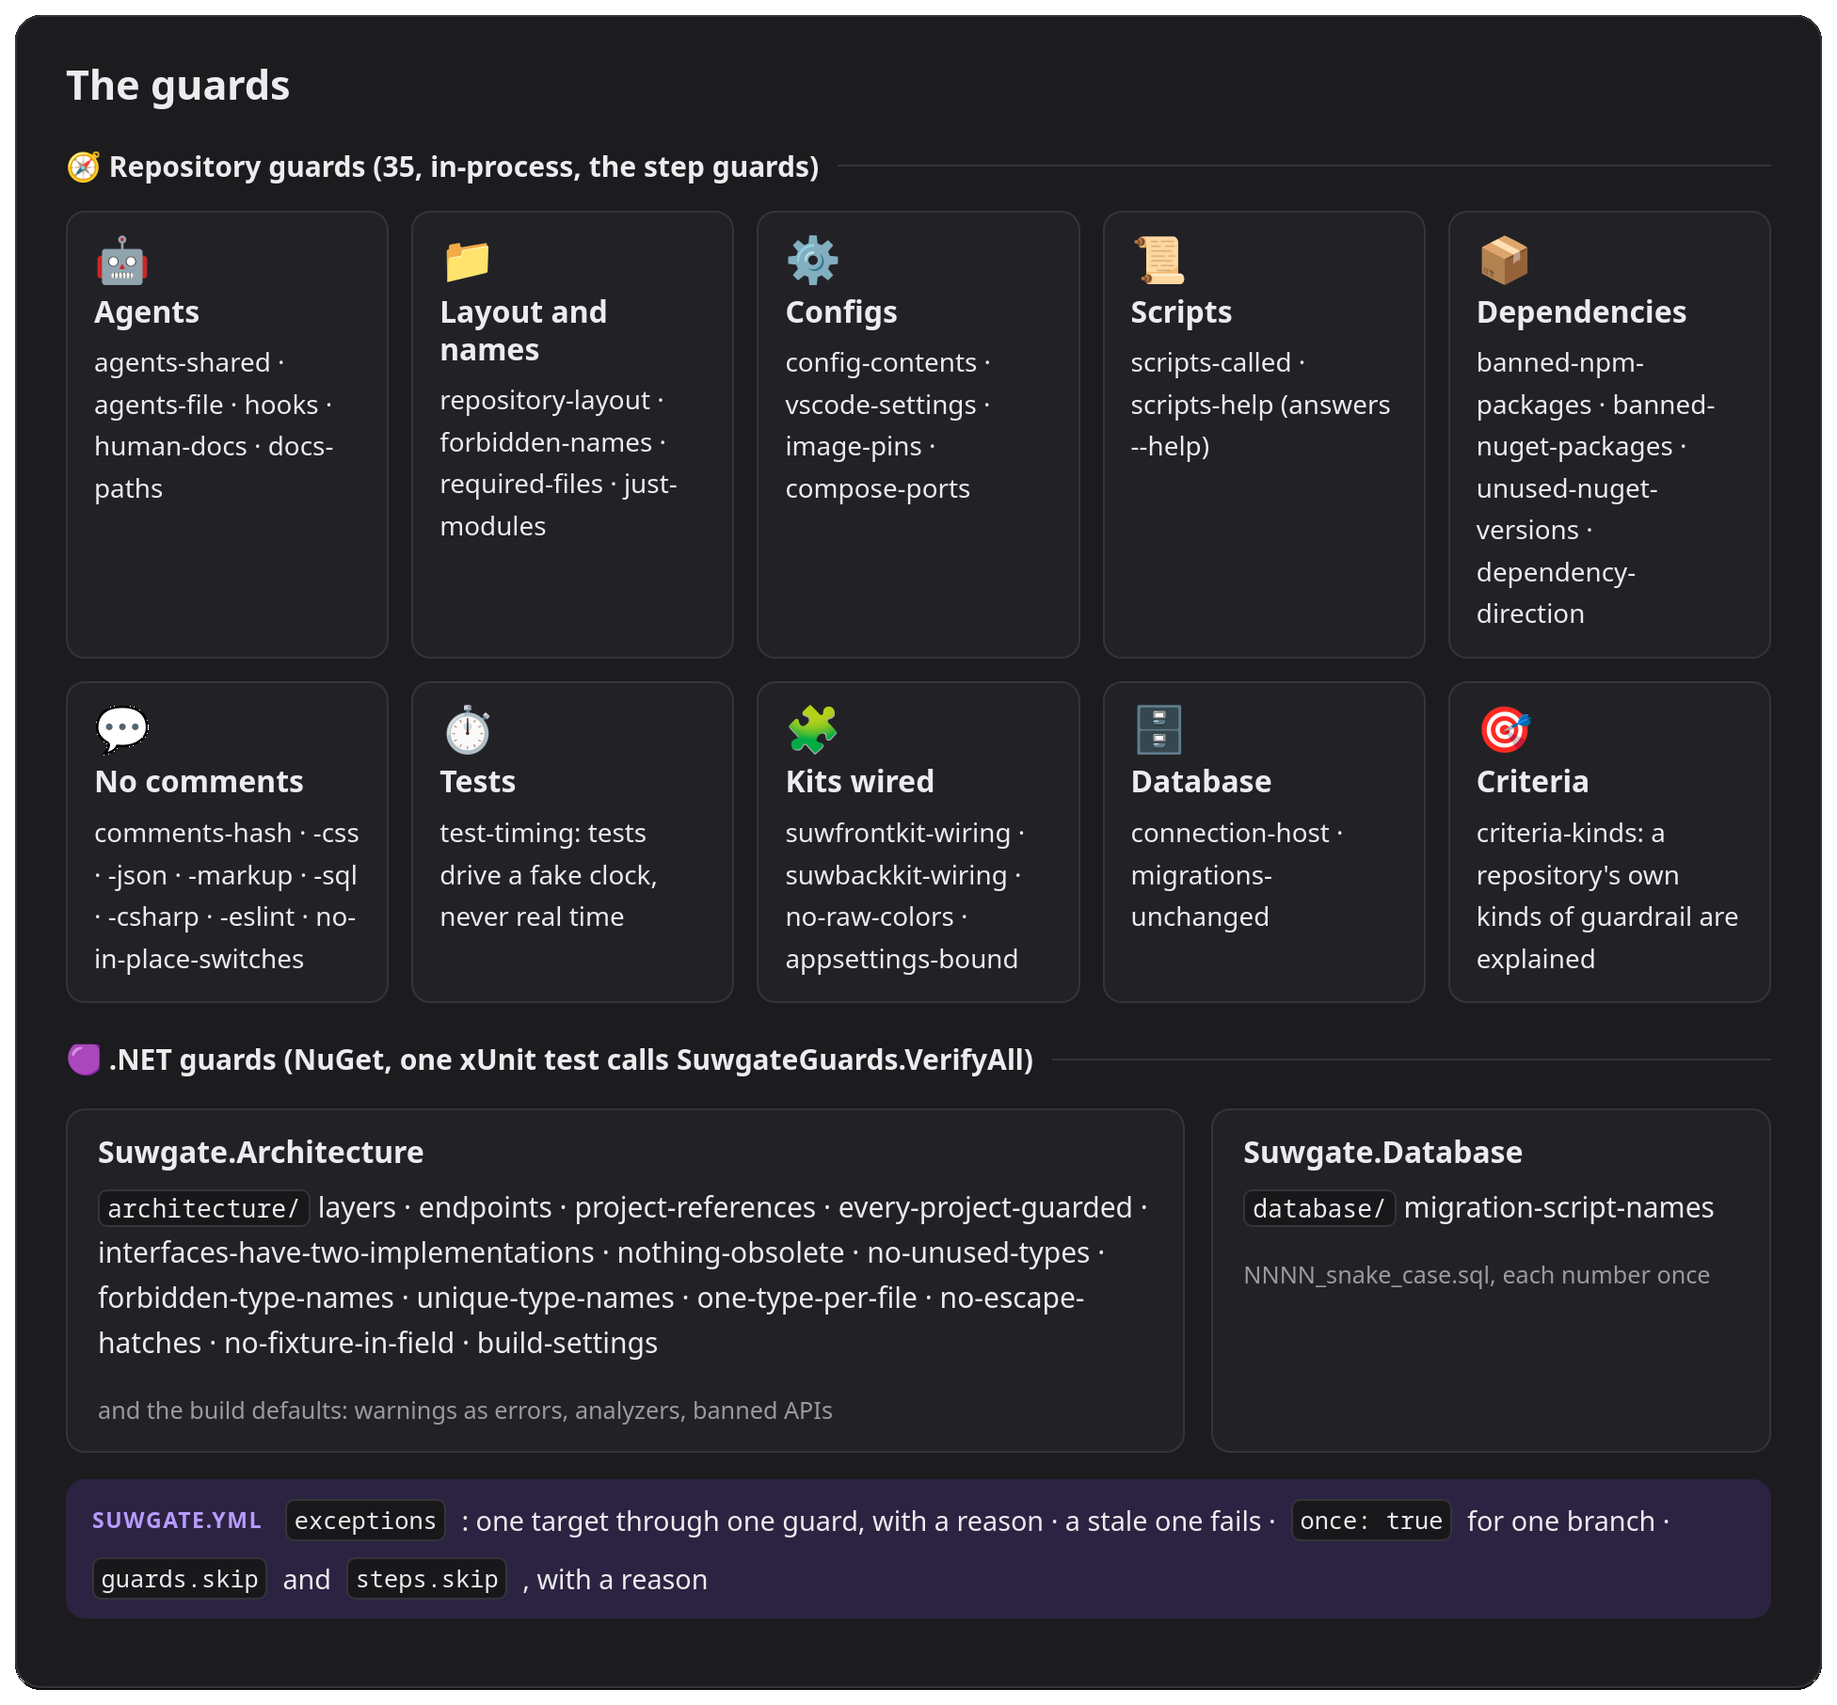
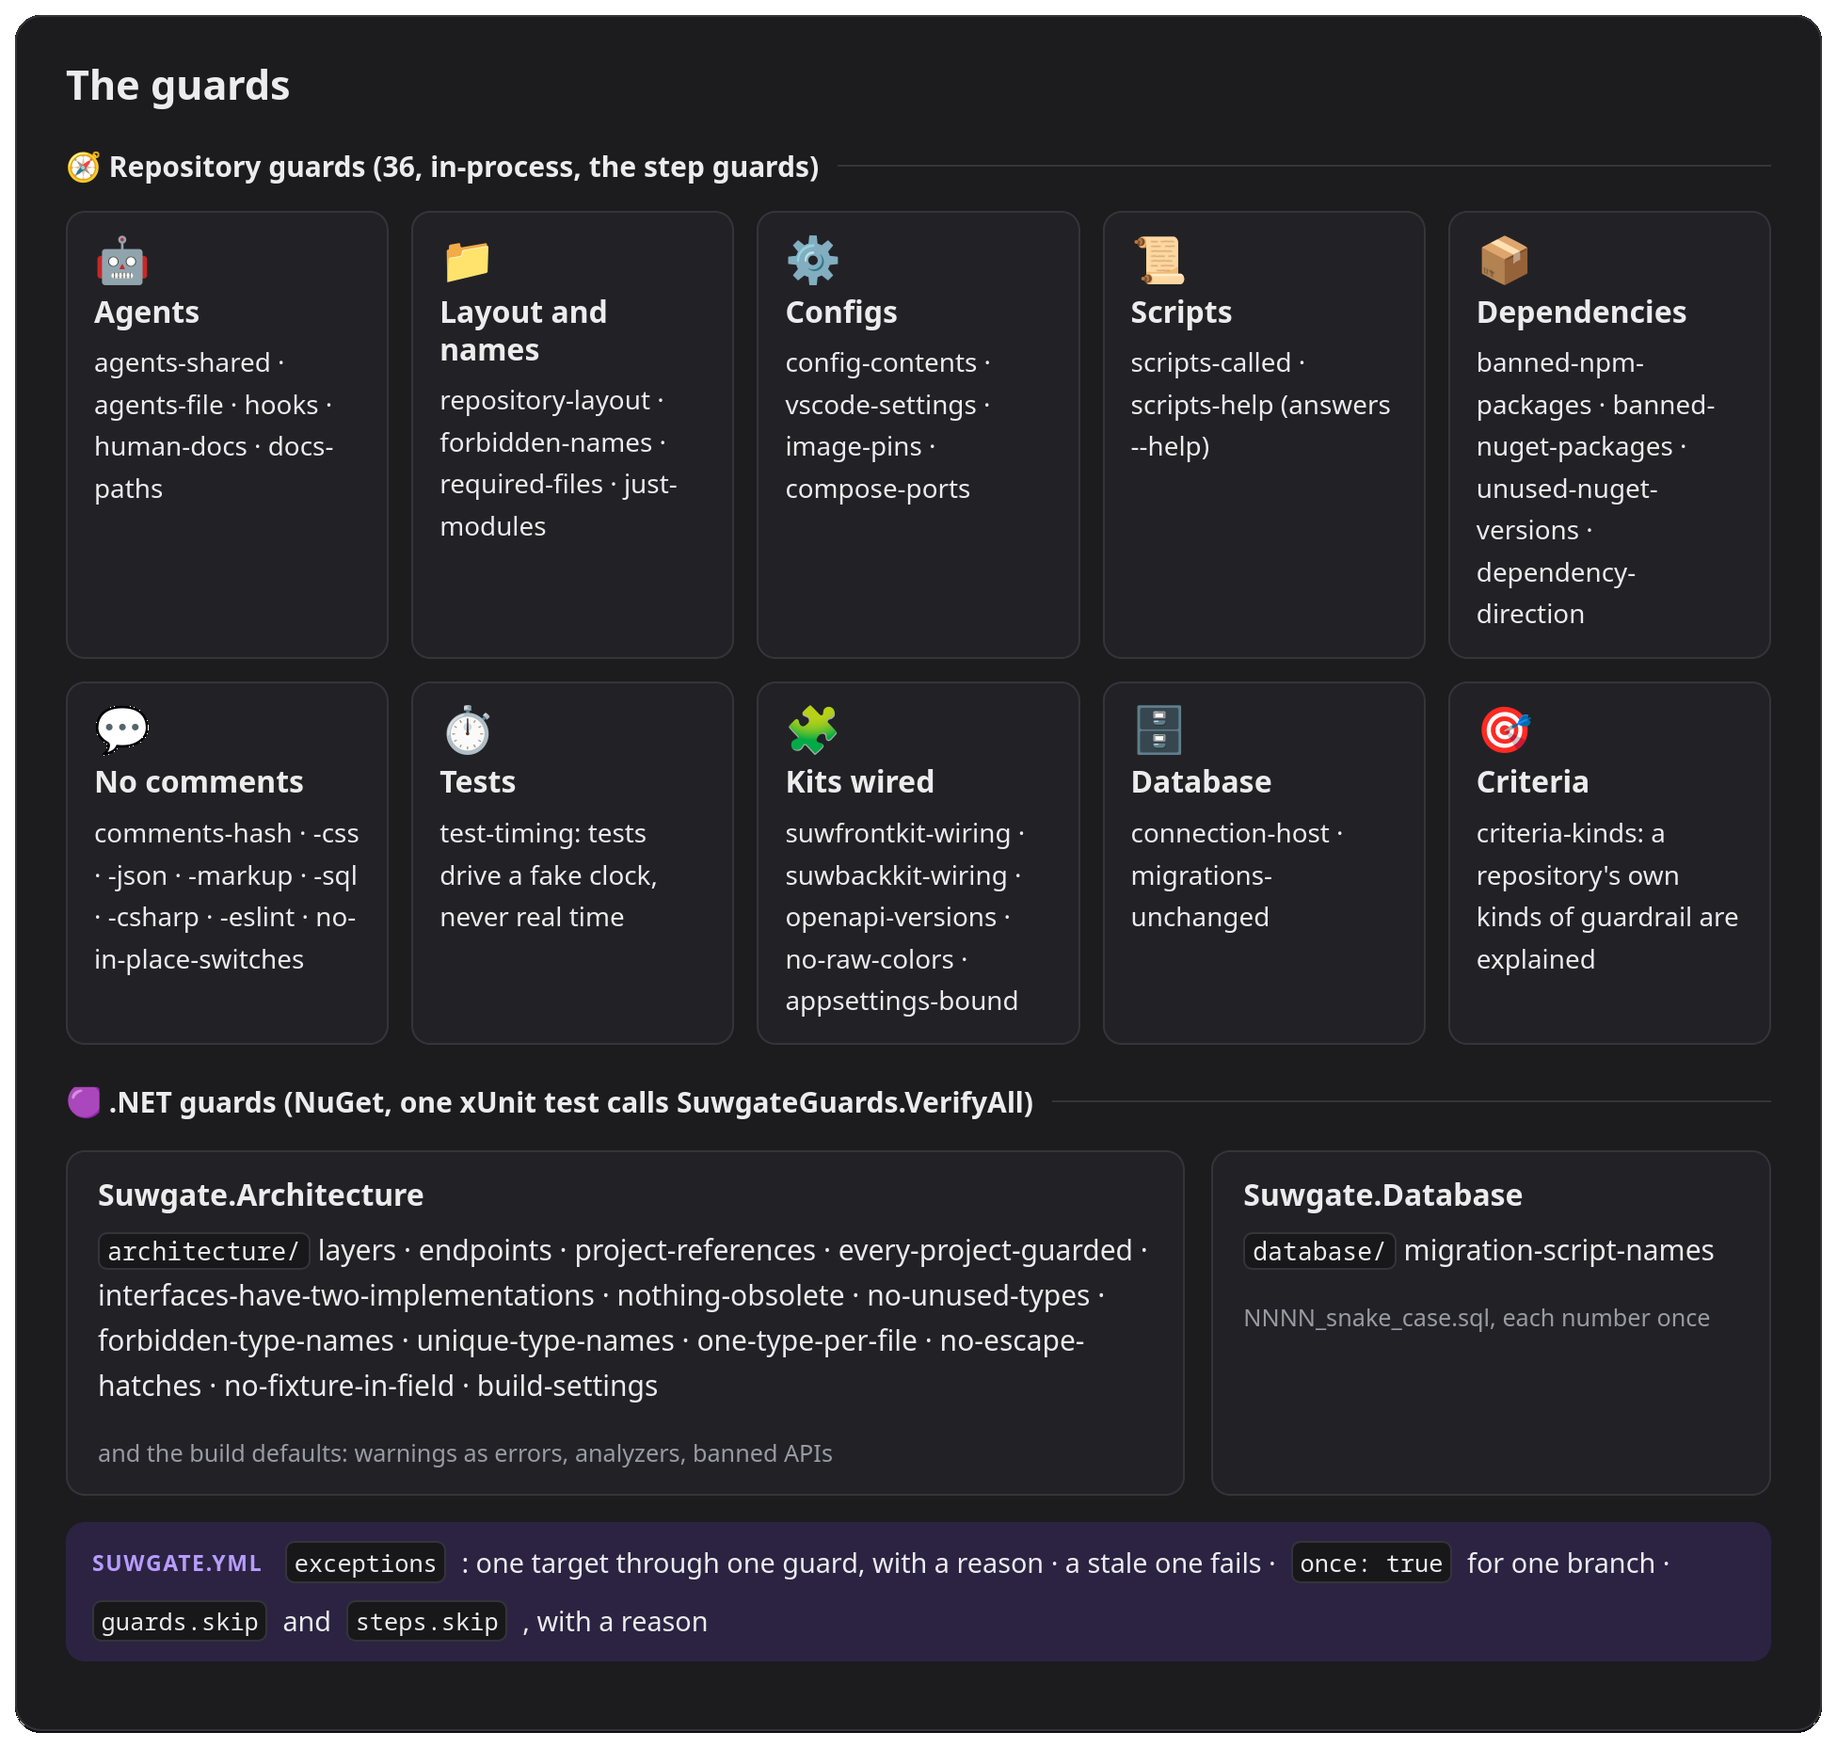
Add the openapi-versions guard: the OpenAPI build tool and library together
The tool that writes the OpenAPI contract at build loads the server's
OpenAPI library; when the library came in through Suwbackkit.Server at an
older release than the tool, every app's contract build failed. The guard
asks for both pinned at the same version, so an update moves both.

Claude-Session: https://claude.ai/code/session_018WtHgTXE2ESTmCyRGAfHbu

diff --git a/docs/visual/board/readme.html b/docs/visual/board/readme.html
@@ -383,7 +383,7 @@ pre.out { font: 12px/1.5 var(--mono); background: var(--code-bg); border: 1px so
 <b>PASS</b> suwgate step dotnet-test:
   all 2 steps in 55s
   (14 exceptions in suwgate.yml)</div></div>
-    <div class="stats"><div><b>4</b><span>profiles: web, library, dotnet, database</span></div><div><b>25</b><span>steps the profiles bring</span></div><div><b>35</b><span>repository guards</span></div><div><b>14</b><span>.NET guards in xUnit</span></div><div><b>3</b><span>hooks for agents and git</span></div><div><b>3</b><span>reusable CI workflows</span></div></div>
+    <div class="stats"><div><b>4</b><span>profiles: web, library, dotnet, database</span></div><div><b>25</b><span>steps the profiles bring</span></div><div><b>36</b><span>repository guards</span></div><div><b>14</b><span>.NET guards in xUnit</span></div><div><b>3</b><span>hooks for agents and git</span></div><div><b>3</b><span>reusable CI workflows</span></div></div>
   </div>
 </section>
 
@@ -452,7 +452,7 @@ pre.out { font: 12px/1.5 var(--mono); background: var(--code-bg); border: 1px so
 
 <section id="guards">
   <h2>The guards</h2>
-  <div class="group">🧭 Repository guards (35, in-process, the step guards)</div>
+  <div class="group">🧭 Repository guards (36, in-process, the step guards)</div>
   <div class="cards" style="--cols:5">
     <div><span class="ico">🤖</span><h4>Agents</h4><p>agents-shared · agents-file · hooks · human-docs · docs-paths</p></div>
     <div><span class="ico">📁</span><h4>Layout and names</h4><p>repository-layout · forbidden-names · required-files · just-modules</p></div>
@@ -461,7 +461,7 @@ pre.out { font: 12px/1.5 var(--mono); background: var(--code-bg); border: 1px so
     <div><span class="ico">📦</span><h4>Dependencies</h4><p>banned-npm-packages · banned-nuget-packages · unused-nuget-versions · dependency-direction</p></div>
     <div><span class="ico">💬</span><h4>No comments</h4><p>comments-hash · -css · -json · -markup · -sql · -csharp · -eslint · no-in-place-switches</p></div>
     <div><span class="ico">⏱</span><h4>Tests</h4><p>test-timing: tests drive a fake clock, never real time</p></div>
-    <div><span class="ico">🧩</span><h4>Kits wired</h4><p>suwfrontkit-wiring · suwbackkit-wiring · no-raw-colors · appsettings-bound</p></div>
+    <div><span class="ico">🧩</span><h4>Kits wired</h4><p>suwfrontkit-wiring · suwbackkit-wiring · openapi-versions · no-raw-colors · appsettings-bound</p></div>
     <div><span class="ico">🗄</span><h4>Database</h4><p>connection-host · migrations-unchanged</p></div>
     <div><span class="ico">🎯</span><h4>Criteria</h4><p>criteria-kinds: a repository's own kinds of guardrail are explained</p></div>
   </div>

diff --git a/src/guards/dotnet/openApiVersions.ts b/src/guards/dotnet/openApiVersions.ts
@@ -1,0 +1,39 @@
+import type { Guard } from "../../gate/contract.ts";
+import { centralPackagesFile } from "./msbuild.ts";
+
+const TOOL = "Microsoft.Extensions.ApiDescription.Server";
+const LIBRARY = "Microsoft.AspNetCore.OpenApi";
+
+export function centralVersion(text: string, name: string): string | undefined {
+    for (const match of text.matchAll(/<PackageVersion\b[^>]*>/g)) {
+        const element = match[0];
+        if (!new RegExp(`\\bInclude\\s*=\\s*"${name.replaceAll(".", "\\.")}"`).test(element)) continue;
+        return /\bVersion\s*=\s*"([^"]+)"/.exec(element)?.[1];
+    }
+    return undefined;
+}
+
+export const openApiVersions: Guard = {
+    id: "openapi-versions",
+    description: `${TOOL}, which writes the OpenAPI contract at build, is pinned in Directory.Packages.props to the same version as ${LIBRARY}, whose OpenAPI library it loads`,
+    profiles: ["dotnet"],
+    check(context) {
+        const file = centralPackagesFile(context);
+        if (!context.files.includes(file)) return [];
+        const text = context.read(file);
+        const tool = centralVersion(text, TOOL);
+        if (tool === undefined) return [];
+        const library = centralVersion(text, LIBRARY);
+        if (library === tool) return [];
+        const pin = `<PackageVersion Include="${LIBRARY}" Version="${tool}" />`;
+        return [
+            {
+                target: file,
+                message:
+                    library === undefined
+                        ? `${TOOL} ${tool} loads the server's ${LIBRARY}, which only comes in through a package (Suwbackkit.Server) and can be another release, so the build of the contract fails with a Microsoft.OpenApi version mismatch: pin it beside the tool, ${pin} (transitive pinning makes it win), so an update moves both`
+                        : `${TOOL} is ${tool} but ${LIBRARY} is ${library}: the tool loads the server's OpenAPI library and fails on a Microsoft.OpenApi version mismatch, so give both the same version`,
+            },
+        ];
+    },
+};

diff --git a/src/guards/dotnet/openApiVersions.test.ts b/src/guards/dotnet/openApiVersions.test.ts
@@ -1,0 +1,34 @@
+import { describe, expect, it } from "vitest";
+
+import { centralVersion, openApiVersions } from "./openApiVersions.ts";
+import { contextOf } from "./testContext.ts";
+
+const props = (...lines: string[]) => `<Project><ItemGroup>${lines.join("")}</ItemGroup></Project>`;
+const tool = (version: string) => `<PackageVersion Include="Microsoft.Extensions.ApiDescription.Server" Version="${version}" />`;
+const library = (version: string) => `<PackageVersion Version="${version}" Include="Microsoft.AspNetCore.OpenApi" />`;
+
+describe("openapi-versions", () => {
+    it("passes the tool and the library at the same version, and a repository without the tool", async () => {
+        expect(await openApiVersions.check(contextOf({ "Directory.Packages.props": props(tool("10.0.15"), library("10.0.15")) }))).toEqual(
+            [],
+        );
+        expect(await openApiVersions.check(contextOf({ "Directory.Packages.props": props(library("10.0.15")) }))).toEqual([]);
+    });
+
+    it("asks to pin the library beside the tool when only a package brings it in", async () => {
+        const [finding] = await openApiVersions.check(contextOf({ "Directory.Packages.props": props(tool("10.0.15")) }));
+        expect(finding?.message).toContain('<PackageVersion Include="Microsoft.AspNetCore.OpenApi" Version="10.0.15" />');
+    });
+
+    it("finds the two at different versions", async () => {
+        const [finding] = await openApiVersions.check(
+            contextOf({ "Directory.Packages.props": props(tool("10.0.15"), library("10.0.12")) }),
+        );
+        expect(finding?.message).toContain("is 10.0.15 but Microsoft.AspNetCore.OpenApi is 10.0.12");
+    });
+
+    it("reads a version whatever the order of the attributes", () => {
+        expect(centralVersion(props(library("1.2.3")), "Microsoft.AspNetCore.OpenApi")).toBe("1.2.3");
+        expect(centralVersion(props(tool("4.5.6")), "Microsoft.Extensions.ApiDescription.Server")).toBe("4.5.6");
+    });
+});

diff --git a/src/guards/dotnet/index.ts b/src/guards/dotnet/index.ts
@@ -1,7 +1,14 @@
 import type { Guard } from "../../gate/contract.ts";
 import { appsettingsBound } from "./appsettingsBound.ts";
 import { bannedNugetPackages } from "./bannedNugetPackages.ts";
+import { openApiVersions } from "./openApiVersions.ts";
 import { suwbackkitWiring } from "./suwbackkitWiring.ts";
 import { unusedNugetVersions } from "./unusedNugetVersions.ts";
 
-export const dotnetGuards: readonly Guard[] = [bannedNugetPackages, unusedNugetVersions, appsettingsBound, suwbackkitWiring];
+export const dotnetGuards: readonly Guard[] = [
+    bannedNugetPackages,
+    unusedNugetVersions,
+    appsettingsBound,
+    suwbackkitWiring,
+    openApiVersions,
+];

diff --git a/README.md b/README.md
@@ -1,6 +1,6 @@
 <picture>
   <source media="(prefers-color-scheme: dark)" srcset="docs/visual/board/img/readme/hero-dark.png">
-  <img alt="suwgate, npm CLI and NuGet guards. One quality gate for every repository: one command runs the steps of its profiles and its guards, configured in one suwgate.yml. Tags: suwgate check, agent hooks, suwgate dev, CI workflows, Renovate preset. Terminal: suwgate check --quick prints PASS, all 8 steps in 4s (14 exceptions in suwgate.yml); suwgate step dotnet-test prints PASS, all 2 steps in 55s. Numbers: 4 profiles (web, library, dotnet, database), 25 steps the profiles bring, 35 repository guards, 14 .NET guards in xUnit, 3 hooks for agents and git, 3 reusable CI workflows." src="docs/visual/board/img/readme/hero-light.png" width="100%">
+  <img alt="suwgate, npm CLI and NuGet guards. One quality gate for every repository: one command runs the steps of its profiles and its guards, configured in one suwgate.yml. Tags: suwgate check, agent hooks, suwgate dev, CI workflows, Renovate preset. Terminal: suwgate check --quick prints PASS, all 8 steps in 4s (14 exceptions in suwgate.yml); suwgate step dotnet-test prints PASS, all 2 steps in 55s. Numbers: 4 profiles (web, library, dotnet, database), 25 steps the profiles bring, 36 repository guards, 14 .NET guards in xUnit, 3 hooks for agents and git, 3 reusable CI workflows." src="docs/visual/board/img/readme/hero-light.png" width="100%">
 </picture>
 
 suwgate is the one quality gate of a stack of repositories that agents and one developer work on: the CLI
@@ -69,7 +69,7 @@ what each step proves: [docs/usage.md](docs/usage.md#the-steps-of-the-profiles).
 
 <picture>
   <source media="(prefers-color-scheme: dark)" srcset="docs/visual/board/img/readme/guards-dark.png">
-  <img alt="The guards. Repository guards, 35, in-process, the step guards. Agents: agents-shared, agents-file, hooks, human-docs, docs-paths. Layout and names: repository-layout, forbidden-names, required-files, just-modules. Configs: config-contents, vscode-settings, image-pins, compose-ports. Scripts: scripts-called, scripts-help (answers --help). Dependencies: banned-npm-packages, banned-nuget-packages, unused-nuget-versions, dependency-direction. No comments: comments-hash, comments-css, comments-json, comments-markup, comments-sql, comments-csharp, comments-eslint, no-in-place-switches. Tests: test-timing, tests drive a fake clock, never real time. Kits wired: suwfrontkit-wiring, suwbackkit-wiring, no-raw-colors, appsettings-bound. Database: connection-host, migrations-unchanged. Criteria: criteria-kinds, a repository's own kinds of guardrail are explained. .NET guards, NuGet, one xUnit test calls SuwgateGuards.VerifyAll. Suwgate.Architecture: architecture/ layers, endpoints, project-references, every-project-guarded, interfaces-have-two-implementations, nothing-obsolete, no-unused-types, forbidden-type-names, unique-type-names, one-type-per-file, no-escape-hatches, no-fixture-in-field, build-settings; and the build defaults: warnings as errors, analyzers, banned APIs. Suwgate.Database: database/ migration-script-names, NNNN_snake_case.sql, each number once. suwgate.yml: exceptions let one target through one guard, with a reason; a stale one fails; once: true for one branch; guards.skip and steps.skip, with a reason." src="docs/visual/board/img/readme/guards-light.png" width="100%">
+  <img alt="The guards. Repository guards, 36, in-process, the step guards. Agents: agents-shared, agents-file, hooks, human-docs, docs-paths. Layout and names: repository-layout, forbidden-names, required-files, just-modules. Configs: config-contents, vscode-settings, image-pins, compose-ports. Scripts: scripts-called, scripts-help (answers --help). Dependencies: banned-npm-packages, banned-nuget-packages, unused-nuget-versions, dependency-direction. No comments: comments-hash, comments-css, comments-json, comments-markup, comments-sql, comments-csharp, comments-eslint, no-in-place-switches. Tests: test-timing, tests drive a fake clock, never real time. Kits wired: suwfrontkit-wiring, suwbackkit-wiring, openapi-versions, no-raw-colors, appsettings-bound. Database: connection-host, migrations-unchanged. Criteria: criteria-kinds, a repository's own kinds of guardrail are explained. .NET guards, NuGet, one xUnit test calls SuwgateGuards.VerifyAll. Suwgate.Architecture: architecture/ layers, endpoints, project-references, every-project-guarded, interfaces-have-two-implementations, nothing-obsolete, no-unused-types, forbidden-type-names, unique-type-names, one-type-per-file, no-escape-hatches, no-fixture-in-field, build-settings; and the build defaults: warnings as errors, analyzers, banned APIs. Suwgate.Database: database/ migration-script-names, NNNN_snake_case.sql, each number once. suwgate.yml: exceptions let one target through one guard, with a reason; a stale one fails; once: true for one branch; guards.skip and steps.skip, with a reason." src="docs/visual/board/img/readme/guards-light.png" width="100%">
 </picture>
 
 A guard reports every finding with its fix and never decides an exception itself: `suwgate.yml` holds the exceptions, each with

diff --git a/docs/usage.md b/docs/usage.md
@@ -169,6 +169,9 @@ A check counts only when the tool shows it ran, not because a file or a line of 
 - The kits are wired, not only installed: `suwbackkit-wiring` asks a web server that references `Suwbackkit.Server` to call
   `AddServerDefaults` and `MapServerDefaults`; `suwfrontkit-wiring` asks an app that depends on `@maniumek/suwfrontkit` to load
   its `theme.css` from the main module of its `index.html`, or from a stylesheet that module imports.
+- `openapi-versions` keeps `Microsoft.Extensions.ApiDescription.Server`, which writes the OpenAPI contract at build, at the same
+  version as `Microsoft.AspNetCore.OpenApi` in `Directory.Packages.props`: the tool loads the server's OpenAPI library and fails on
+  a `Microsoft.OpenApi` mismatch, and pinning the library beside the tool makes an update move both.
 - The reports live in a temporary folder of the run (`SUWGATE_RUN`), deleted when `suwgate check` ends. Every .NET test project
   tests with xUnit v3, since `dotnet-test` reads xUnit's XML reports.
 

diff --git a/.changeset/openapi-versions.md b/.changeset/openapi-versions.md
@@ -1,0 +1,5 @@
+---
+"@maniumek/suwgate": minor
+---
+
+New guard `openapi-versions` (profile `dotnet`): when `Directory.Packages.props` pins `Microsoft.Extensions.ApiDescription.Server`, it pins `Microsoft.AspNetCore.OpenApi` at the same version. The tool loads the server's OpenAPI library to write the contract at build, and fails on a `Microsoft.OpenApi` mismatch when the library comes in through a package (Suwbackkit.Server) at another release. A repository adds `<PackageVersion Include="Microsoft.AspNetCore.OpenApi" Version="<the tool's version>" />` beside the tool; transitive pinning makes it win, and an update moves both.
